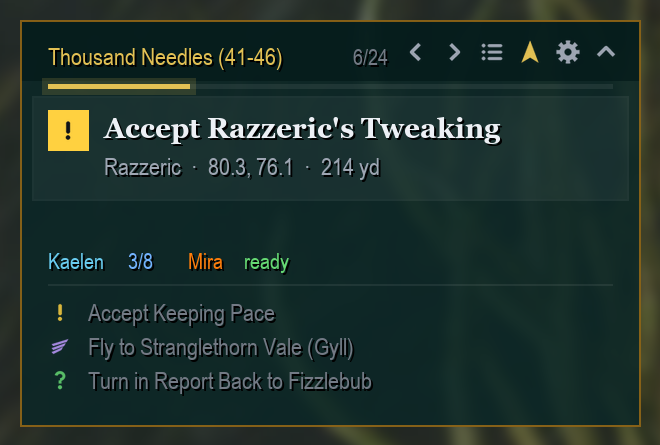
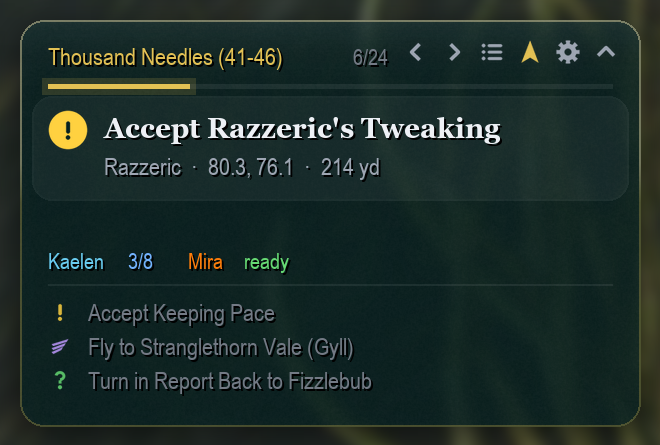
Path back along your own trail; every look is glass in its own colours (0.3.2)
Trail.lua records where you walk (loops trimmed, jumps restart it); the
arrow and map route lead back to quest givers along it. Onward, Glass and
Ellesmere (was Flat) now share the glass build with their own palettes.

Changed region(s): [[0.0303, 0.9056, 0.9697, 0.9933], [0.0303, 0.0292, 0.9697, 0.1169], [0.0606, 0.2337, 0.1515, 0.3506]]

diff --git a/tools/preview_ui.py b/tools/preview_ui.py
@@ -15,9 +15,11 @@ from PIL import Image, ImageDraw, ImageFilter, ImageFont
 MEDIA = pathlib.Path(__file__).resolve().parent.parent / "Onward" / "media"
 K = 2.0                                   # screen px per UI unit (4K at a typical UI scale)
 TINT = (14, 17, 23)
+RIM = (255, 255, 255, int(255 * 0.09))
 ACCENT = (12, 210, 157)                  # Ellesmere green #0CD29D (flat theme default)
 PANEL = (17, 18, 20)
 THEME = "flat"
+SQUARE = False      # every theme is glass now; the square drawing is kept for reference
 BORDER = (0, 0, 0, 255)
 STRIP = (0, 0, 0, int(255 * 0.35))
 TEXT, SUB, DIM = (237, 240, 245), (158, 166, 179), (115, 122, 133)
@@ -61,7 +63,7 @@ def glass(base, x, y, w, h, alpha=0.72, corner=12):
     # rim + lit top edge
     rim = Image.new("RGBA", base.size, (0, 0, 0, 0))
     rd = ImageDraw.Draw(rim)
-    rd.rounded_rectangle([x, y, x + w, y + h], radius=r, outline=(255, 255, 255, int(255 * 0.09)), width=max(1, int(K)))
+    rd.rounded_rectangle([x, y, x + w, y + h], radius=r, outline=RIM, width=max(1, int(K)))
     top = Image.new("RGBA", base.size, (0, 0, 0, 0))
     ImageDraw.Draw(top).rounded_rectangle([x, y, x + w, y + h], radius=r, outline=(255, 255, 255, int(255 * 0.22)), width=max(1, int(K)))
     fade = Image.new("L", base.size, 0)
@@ -90,7 +92,7 @@ def flatpanel(base, x, y, w, h, alpha=0.85, strip=0):
 
 
 def surface(base, x, y, w, h, alpha=0.72, corner=12, strip=0):
-    if THEME != "glass":
+    if SQUARE:
         flatpanel(base, x, y, w, h, 0.85 if alpha >= 0.7 else alpha + 0.2, strip)
     else:
         glass(base, x, y, w, h, alpha, corner)
@@ -134,12 +136,12 @@ def panel(base, X, Y):
     cx, cy = X + PAD, Y + 46
     inset = Image.new("RGBA", base.size, (0, 0, 0, 0))
     box = [(cx - 8) * K, (cy - 8) * K, (X + W - PAD + 8) * K, (cy + 44) * K]
-    if THEME != "glass":
+    if SQUARE:
         ImageDraw.Draw(inset).rectangle(box, fill=(255, 255, 255, 12), outline=(255, 255, 255, 16), width=int(K))
     else:
         ImageDraw.Draw(inset).rounded_rectangle(box, radius=10 * K, fill=(255, 255, 255, 12), outline=(255, 255, 255, 16), width=int(K))
     base.alpha_composite(inset)
-    if THEME != "glass":
+    if SQUARE:
         overlay(base, lambda d: d.rectangle([cx * K, (cy - 1) * K, (cx + 20) * K, (cy + 19) * K], fill=COL["accept"] + (255,)))
     else:
         icon(base, "circle", cx + 10, cy + 9, 20, COL["accept"])
@@ -181,10 +183,11 @@ def main():
     if THEME == "flat":
         global HEAD
         HEAD = BODY          # flat theme: one clean face throughout
+    global ACCENT, TINT, RIM
     if THEME == "onward":    # the logo's palette (Skin.lua S.ONWARD)
-        global ACCENT, PANEL, BORDER, STRIP
-        ACCENT, PANEL = (227, 193, 84), (10, 38, 38)
-        BORDER, STRIP = (185, 121, 18, 178), (1, 23, 23, 166)
+        ACCENT, TINT, RIM = (227, 193, 84), (4, 32, 32), (227, 193, 84, 71)
+    elif THEME == "flat":    # "Ellesmere": neutral glass
+        TINT = PANEL
     base = Image.open(shot).convert("RGBA")
     sx = base.width / 3840
     if sx != 1:

diff --git a/curseforge-description.md b/curseforge-description.md
@@ -58,6 +58,7 @@ Install it on a character you've already been playing and Onward works out what 
 - **Flight advice:** when a flight path you know beats running, the arrow points you to the flight master and Onward picks the flight for you. Hold Shift to choose yourself.
 - **Route on the world map:** a dotted line to the current step and on through the next three stops, numbered, with flight legs marked.
 - On kill and loot steps the arrow points at the nearest mobs, not the middle of the area.
+- **The way you came:** heading back to a quest giver, the arrow follows the path you walked out on (around cliffs, over bridges) instead of a straight line.
 - Map pin on the current step, and TomTom support if you use it.
 
 ## Quest-mob targeting
@@ -81,7 +82,7 @@ For "collect" quests, each item objective shows your own drop rate per kill and 
 
 ## Looks and feel
 
-A compact panel showing the current step, its objectives and what comes next. The default look matches the logo: deep teal panels with a gold border and gold highlights. Options > Panel > Look also has a plain flat dark look (with **EllesmereUI** installed it takes your EllesmereUI accent colour, panel colour and font) and frosted glass. Opacity, size, number of upcoming steps and more are in the options (`/ow options`, the gear on the panel, or Esc > Options > AddOns).
+A compact panel showing the current step, its objectives and what comes next. Frosted-glass panels in three colourways: **Onward** (the logo's teal and gold, the default), **Glass** (blue-slate) and **Ellesmere** (neutral dark; with **EllesmereUI** installed it takes your EllesmereUI accent colour, panel colour and font). Switch under Options > Panel > Look. Opacity, size, number of upcoming steps and more are in the options (`/ow options`, the gear on the panel, or Esc > Options > AddOns).
 
 ## Write your own routes
 

diff --git a/Onward/CHANGELOG.md b/Onward/CHANGELOG.md
@@ -1,5 +1,18 @@
 # Changelog
 
+## 0.3.2
+
+- **The way you came.** Heading back to a quest giver you walked away from, the arrow now follows
+  your own path (around the cliff, over the bridge) instead of a straight line through it, and
+  the map route draws that path. The distance shown is the whole way back. It points straight
+  again once you're close, if you've left the path, or when your path was a long detour.
+  Onward keeps the last few kilometres you walked; a flight, hearthstone or teleport starts it
+  over. Options > Navigation > Lead back the way you came.
+- Every look is frosted glass now, each in its own colours: **Onward** (teal glass, gold edge,
+  gold highlights; the default), **Glass** (blue-slate, green) and **Ellesmere** (neutral dark,
+  green, plain font; takes your EllesmereUI colours and font when it's installed). Ellesmere
+  replaces the old square Flat look.
+
 ## 0.3.1
 
 - New look to match the logo, and the default for new installs: deep teal panels, a thin gold
